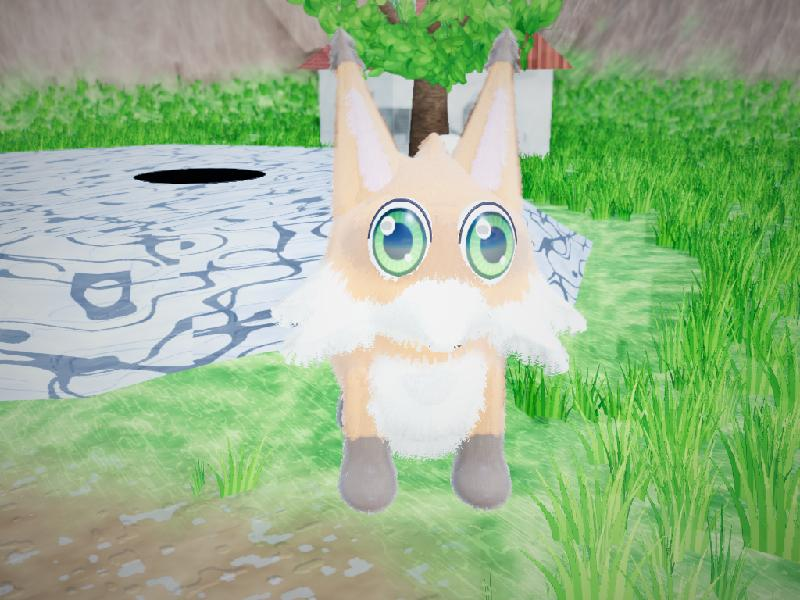
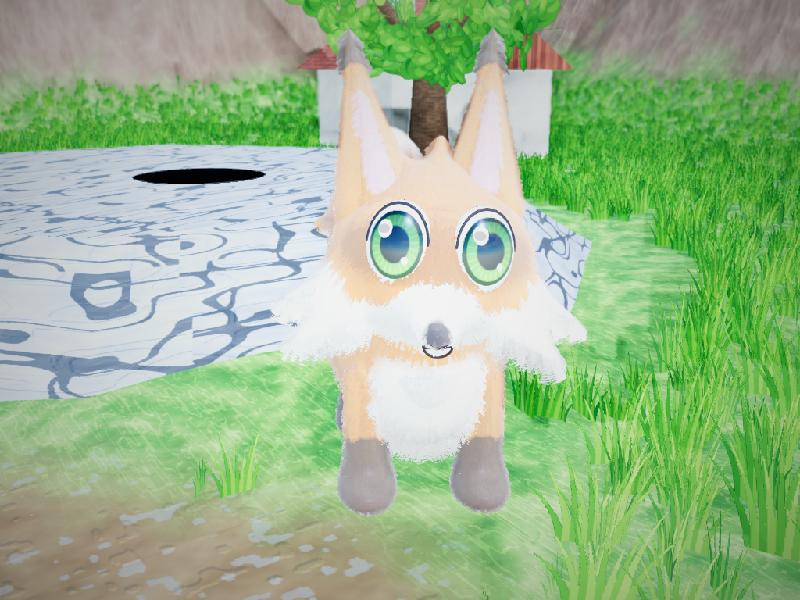
Fennel mouth on the muzzle tip under a nose mark
The spec point sat under the muzzle, so the surface projection faced down and
off to one side. It now lands on the tip's front underside.

diff --git a/src/samples/species-data.ts b/src/samples/species-data.ts
@@ -482,7 +482,9 @@ export const FENNEL_SPEC: SpeciesSpec = {
   ],
   shade: { top: 1.1, bottom: 0.68, yMax: 2.6 },
   marks: [
-    // A dark mask across the eyes, a cream chest patch and a dark ring on the tail.
+    // A dark mask across the eyes, a dark nose on the muzzle tip, a cream chest patch and
+    // a dark ring on the tail.
+    { kind: 'sphere', a: V(0, 1.47, 1.4), r: 0.085, color: '#2a1a1e', soft: 0.02 },
     {
       kind: 'ellipsoid',
       a: V(0, 1.9, 0.95),
@@ -520,10 +522,11 @@ export const FENNEL_SPEC: SpeciesSpec = {
     tall: 1.3,
   },
   mouth: {
+    // Ahead of and below the muzzle tip, so it lands on the tip's underside front.
     x: 0,
-    y: 1.34,
-    z: 1.3,
-    width: 0.2,
+    y: 1.33,
+    z: 1.52,
+    width: 0.17,
     lip: '#3a2420',
     teeth: true,
     tongue: '#ff8a9a',

diff --git a/PROGRESS.md b/PROGRESS.md
@@ -31,6 +31,9 @@ tiny mouth drawn in the skin low on the face.
 - Data: Nubbin eyes r 0.25, irisScale 0.8, lid 0.12, tall 1.12, mouth width 0.2; Fennel
   eyes r 0.21, irisScale 0.8, tall 1.3, mouth width 0.2.
 - Shots: `docs/samples/face-nubbin.jpg`, `face-fennel.jpg`.
+- Fix (Maor: "mouth on fox is off"): the Fennel mouth point sat under the muzzle, so the
+  projection landed on its underside facing down. It now starts ahead of and below the
+  muzzle tip and lands on the tip's front underside, with a dark nose mark above it.
 
 ## The species format: rig, poses, marks, mouths, directional fur (2026-10-16)
 
